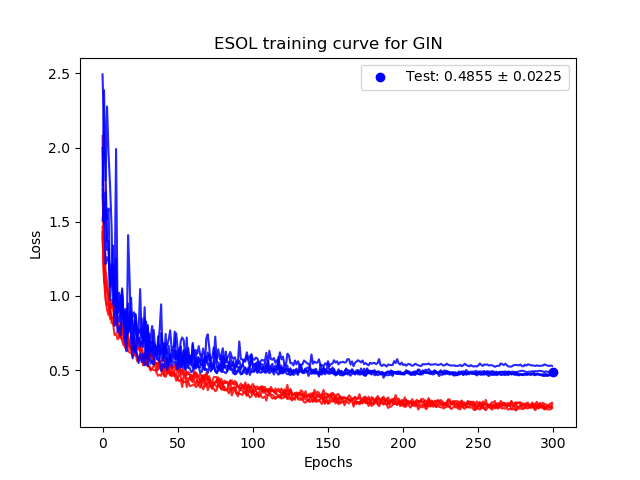
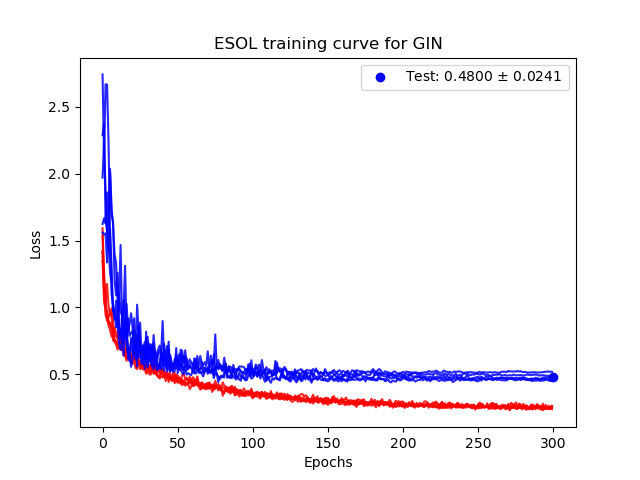
simplify training

diff --git a/kgcnn/data/base.py b/kgcnn/data/base.py
@@ -1,17 +1,18 @@
 import numpy as np
+import tensorflow as tf
 import pandas as pd
 import os
 
 from kgcnn.utils.adj import get_angle_indices, coordinates_to_distancematrix, invert_distance, \
     define_adjacency_from_distance, sort_edge_indices, get_angle, add_edges_reverse_indices, \
     rescale_edge_weights_degree_sym, add_self_loops_to_edge_indices, compute_reverse_edges_index_map
-from kgcnn.utils.data import save_pickle_file, load_pickle_file
+from kgcnn.utils.data import save_pickle_file, load_pickle_file, ragged_tensor_from_nested_numpy
 
 
-class GraphContainer:
-    """Container to store tensor for graph objects such as edges and node attributes or indices in a dictionary.
-    The naming convention if not restricted, however, functions to sort e.g. edges require a certain naming with a
-    flexible prefix.
+class GraphNumpyContainer(object):
+    """Container to store numpy arrays for graph objects such as edges and node attributes or indices in a dictionary.
+    The naming convention is not restricted, however, functions to sort e.g. edges require a certain naming
+    convention with a certain prefix to be recognized. This class essentially wraps a python dict.
 
     """
     def __init__(self, graph: dict = None):
@@ -20,16 +21,29 @@ class GraphContainer:
         if graph is None:
             self._dict = {}
         if isinstance(graph, (dict, list)):
-            self._dict = dict(graph)
+            in_dict = dict(graph)
+            self._dict = {key: np.array(value) for key, value in in_dict.items()}
 
     def assign_property(self, key, value):
-        self._dict.update({key: value})
+        self._dict.update({key: np.array(value)})
 
     def obtain_property(self, key):
         if key in self._dict:
             return self._dict[key]
         else:
             return None
+
+    def __getitem__(self, item):
+        return self._dict[item]
+
+    def __setitem__(self, item, value):
+        self._dict[item] = np.array(value)
+
+    def __str__(self):
+        return str(self._dict)
+
+    def __repr__(self):
+        return "GraphNumpyContainer(" + str(self._dict) + ")"
 
     def _find_graph_properties(self, prop_prefix):
         return [x for x in self._dict if prop_prefix == x[:len(prop_prefix)]]
@@ -169,7 +183,7 @@ class GraphContainer:
         self._dict["range_indices"] = self._dict["edge_indices"]  # We make a copy.
 
         if "node_coordinates" not in self._dict or self._dict["node_coordinates"] is None:
-            print("Coordinates are not set in `GraphContainer`. Can not make graph.")
+            print("Coordinates are not set in `GraphNumpyContainer`. Can not make graph.")
             return self
         xyz = self._dict["node_coordinates"]
         idx = self._dict["range_indices"]
@@ -197,7 +211,7 @@ class GraphContainer:
             self
         """
         if "node_coordinates" not in self._dict or self._dict["node_coordinates"] is None:
-            print("Coordinates are not set in `GraphContainer`. Can not make graph.")
+            print("Coordinates are not set in `GraphNumpyContainer`. Can not make graph.")
             return self
         # Compute distance matrix here. May be problematic for too large graphs.
         dist = coordinates_to_distancematrix(self._dict["node_coordinates"])
@@ -244,18 +258,18 @@ class GraphContainer:
         # Also compute angles
         if compute_angles:
             if "node_coordinates" not in self._dict or self._dict["node_coordinates"] is None:
-                print("Coordinates are not set in `GraphContainer`. Can not make graph.")
+                print("Coordinates are not set in `GraphNumpyContainer`. Can not make graph.")
                 return self
             self._dict["angle_attributes"] = get_angle(self._dict["node_coordinates"], a_triples)
         return self
 
 
 class MemoryGraphList:
-    r"""Class to store a list of graphs containers in memory.
+    r"""Class to store a list of graphs containers in memory. Simply wraps a python list.
     The graph properties are defined by tensor-like numpy arrays for indices, attributes, labels, symbol etc. .
     They are added in form of a list of numpy arrays to the instance of this class.
     Graph related properties must have a special prefix to be noted as graph property and passed to
-    the :obj:`GraphContainer`, which is generated for each item of this list.
+    the :obj:`GraphNumpyContainer` directly, which is generated for each item of this list.
     Prefix are `node_`, `edge_` and `graph_` for their node, edge and graph properties, respectively.
     The range-attributes and range-indices are just like edge-indices but refer to a geometric annotation. This allows
     to have geometric range-connections and topological edges separately. The label 'range' is synonym for a geometric
@@ -276,10 +290,10 @@ class MemoryGraphList:
 
     Functions to modify graph properties are accessed with this class,
     like for example :obj:`sort_edge_indices`. Please find functions in
-    :class:`GraphContainer` and their documentation for further details.
+    :class:`GraphNumpyContainer` and their documentation for further details.
     """
 
-    def __init__(self, length: int):
+    def __init__(self, length: int = None):
         r"""Initialize an empty :obj:`MemoryGraphList` instance. If you want to expand the list or
         namespace of accepted reserved graph prefix identifier, you can expand :obj:`_reserved_graph_property_prefix`.
 
@@ -292,7 +306,7 @@ class MemoryGraphList:
 
     def assign_property(self, key, value):
         if value is None:
-            # We could also here remove the key from graphs.
+            # We could also here remove the key from all graphs.
             return self
         if not isinstance(value, list):
             raise TypeError("Expected type 'list' to assign graph properties.")
@@ -307,7 +321,7 @@ class MemoryGraphList:
     def obtain_property(self, key):
         prop_list = [x.obtain_property(key) for x in self._list]
         if all([x is None for x in prop_list]):
-            print("Warning: Property %s is not set on any graph" % key)
+            print("Warning: Property %s is not set on any graph." % key)
             return None
         return prop_list
 
@@ -334,11 +348,27 @@ class MemoryGraphList:
         return len(self._list)
 
     def __getitem__(self, item):
-        return self._list[item]
+        # Does not make a copy of the data, as a python list does.
+        if isinstance(item, int):
+            return self._list[item]
+        new_list = MemoryGraphList()
+        if isinstance(item, slice):
+            return new_list._set_internal_list(self._list[item])
+        if isinstance(item, list):
+            return new_list._set_internal_list([self._list[int(i)] for i in item])
+        if isinstance(item, np.ndarray):
+            return new_list._set_internal_list([self._list[int(i)] for i in item])
+        raise TypeError("Unsupported type for MemoryGraphList items.")
+
+    def _set_internal_list(self, value: list):
+        if not isinstance(value, list):
+            raise TypeError("Must set list for MemoryGraphList.")
+        self._list = value
+        return self
 
     def __setitem__(self, key, value):
-        if not isinstance(value, GraphContainer):
-            raise TypeError("Require a GraphContainer as list item.")
+        if not isinstance(value, GraphNumpyContainer):
+            raise TypeError("Require a GraphNumpyContainer as list item.")
         self._list[key] = value
 
     def clear(self):
@@ -349,7 +379,7 @@ class MemoryGraphList:
             return self
         if length < 0:
             raise ValueError("Length of empty list must be >=0.")
-        self._list = [GraphContainer() for _ in range(length)]
+        self._list = [GraphNumpyContainer() for _ in range(length)]
         return self
 
     @property
@@ -360,37 +390,55 @@ class MemoryGraphList:
     def length(self, value: int):
         raise ValueError("Can not set length. Please use 'empty()' to initialize an empty list.")
 
+    def _to_tensor(self, item, make_copy=True):
+        if not make_copy:
+            print("Warning: at the moment always a copy is made for tensor().")
+        props = self.obtain_property(item["name"])  # Will be list.
+        is_ragged = item["ragged"] if "ragged" in item else False
+        if is_ragged:
+            return ragged_tensor_from_nested_numpy(props)
+        else:
+            return tf.constant(np.array(props))
+
+    def tensor(self, items, make_copy=True):
+        if isinstance(items, dict):
+            return self._to_tensor(items, make_copy=make_copy)
+        elif isinstance(items, (tuple, list)):
+            return [self._to_tensor(x, make_copy=make_copy) for x in items]
+        else:
+            raise TypeError("Wrong type, expected e.g. [{'name': 'edge_indices', 'ragged': True}, {...}, ...]")
+
     def _set_method_for_elements(self, fun, **kwargs):
         for x in self._list:
             getattr(x, fun)(**kwargs)
         return self
 
     def set_edge_indices_reverse(self, **kwargs):
-        r"""See :obj:`GraphContainer` for usage."""
+        r"""See :obj:`GraphNumpyContainer` for usage."""
         return self._set_method_for_elements("set_edge_indices_reverse", **kwargs)
 
     def make_undirected_edges(self, **kwargs):
-        r"""See :obj:`GraphContainer` for usage."""
+        r"""See :obj:`GraphNumpyContainer` for usage."""
         return self._set_method_for_elements("make_undirected_edges", **kwargs)
 
     def add_edge_self_loops(self, **kwargs):
-        r"""See :obj:`GraphContainer` for usage."""
+        r"""See :obj:`GraphNumpyContainer` for usage."""
         return self._set_method_for_elements("add_edge_self_loops", **kwargs)
 
     def sort_edge_indices(self, **kwargs):
-        r"""See :obj:`GraphContainer` for usage."""
+        r"""See :obj:`GraphNumpyContainer` for usage."""
         return self._set_method_for_elements("sort_edge_indices", **kwargs)
 
     def normalize_edge_weights_sym(self, **kwargs):
-        r"""See :obj:`GraphContainer` for usage."""
+        r"""See :obj:`GraphNumpyContainer` for usage."""
         return self._set_method_for_elements("normalize_edge_weights_sym", **kwargs)
 
     def set_range_from_edges(self, **kwargs):
-        r"""See :obj:`GraphContainer` for usage."""
+        r"""See :obj:`GraphNumpyContainer` for usage."""
         return self._set_method_for_elements("set_range_from_edges", **kwargs)
 
     def set_range(self, **kwargs):
-        r"""See :obj:`GraphContainer` for usage."""
+        r"""See :obj:`GraphNumpyContainer` for usage."""
         return self._set_method_for_elements("set_range", **kwargs)
 
 
@@ -533,7 +581,7 @@ class MemoryGraphDataset(MemoryGraphList):
             filepath = os.path.join(self.data_directory, self.dataset_name + ".kgcnn.pickle")
         self.info("Load pickled dataset...")
         in_list = load_pickle_file(filepath)
-        self._list = [GraphContainer(x) for x in in_list]
+        self._list = [GraphNumpyContainer(x) for x in in_list]
         self.info("done")
         return self
 

diff --git a/training/train_esol.py b/training/train_esol.py
@@ -4,7 +4,6 @@ import os
 
 from sklearn.preprocessing import StandardScaler
 from kgcnn.data.datasets.ESOL import ESOLDataset
-from kgcnn.io.loader import NumpyTensorList
 from kgcnn.utils.models import ModelSelection
 from kgcnn.hyper.selection import HyperSelection
 from kgcnn.training.graph import train_graph_regression_supervised
@@ -34,12 +33,8 @@ hyper = hyper_selection.hyper()
 # Loading ESOL Dataset
 dataset = ESOLDataset().set_attributes()
 dataset.hyper_process_methods(hyper_selection.data())
-dataset.hyper_assert_valid_model_input(hyper_selection.model("inputs"))
-data_length = dataset.length
-dataset.save()
-dataset.load()
-# Using NumpyTensorList() to make tf.Tensor objects from a list of arrays.
-data_loader = NumpyTensorList(*[getattr(dataset, x['name']) for x in hyper['model']['inputs']])
+dataset.hyper_assert_valid_model_input(hyper_selection.inputs())
+data_length = len(dataset)
 labels = np.array(dataset.graph_labels)
 
 # Define Scaler for targets.
@@ -52,9 +47,8 @@ kf = KFold(**hyper_selection.k_fold())
 history_list, test_indices_list = [], []
 for train_index, test_index in kf.split(X=np.arange(data_length)[:, None]):
     # Select train and test data.
-    is_ragged = [x['ragged'] for x in hyper['model']['inputs']]
-    xtrain, ytrain = data_loader[train_index].tensor(ragged=is_ragged), labels[train_index]
-    xtest, ytest = data_loader[test_index].tensor(ragged=is_ragged), labels[test_index]
+    xtrain, ytrain = dataset[train_index].tensor(hyper_selection.inputs()), labels[train_index]
+    xtest, ytest = dataset[test_index].tensor(hyper_selection.inputs()), labels[test_index]
 
     # Normalize training and test targets.
     ytrain = scaler.fit_transform(ytrain)

diff --git a/kgcnn/hyper/selection.py b/kgcnn/hyper/selection.py
@@ -56,6 +56,9 @@ class HyperSelection:
             return deepcopy(self._hyper["data"])
         return deepcopy(self._hyper["data"][section])
 
+    def inputs(self):
+        return deepcopy(self._hyper["model"]["inputs"])
+
     def compile(self, loss=None, optimizer='rmsprop', metrics: list = None, weighted_metrics: list = None):
         """Select compile hyper-parameter.
 
